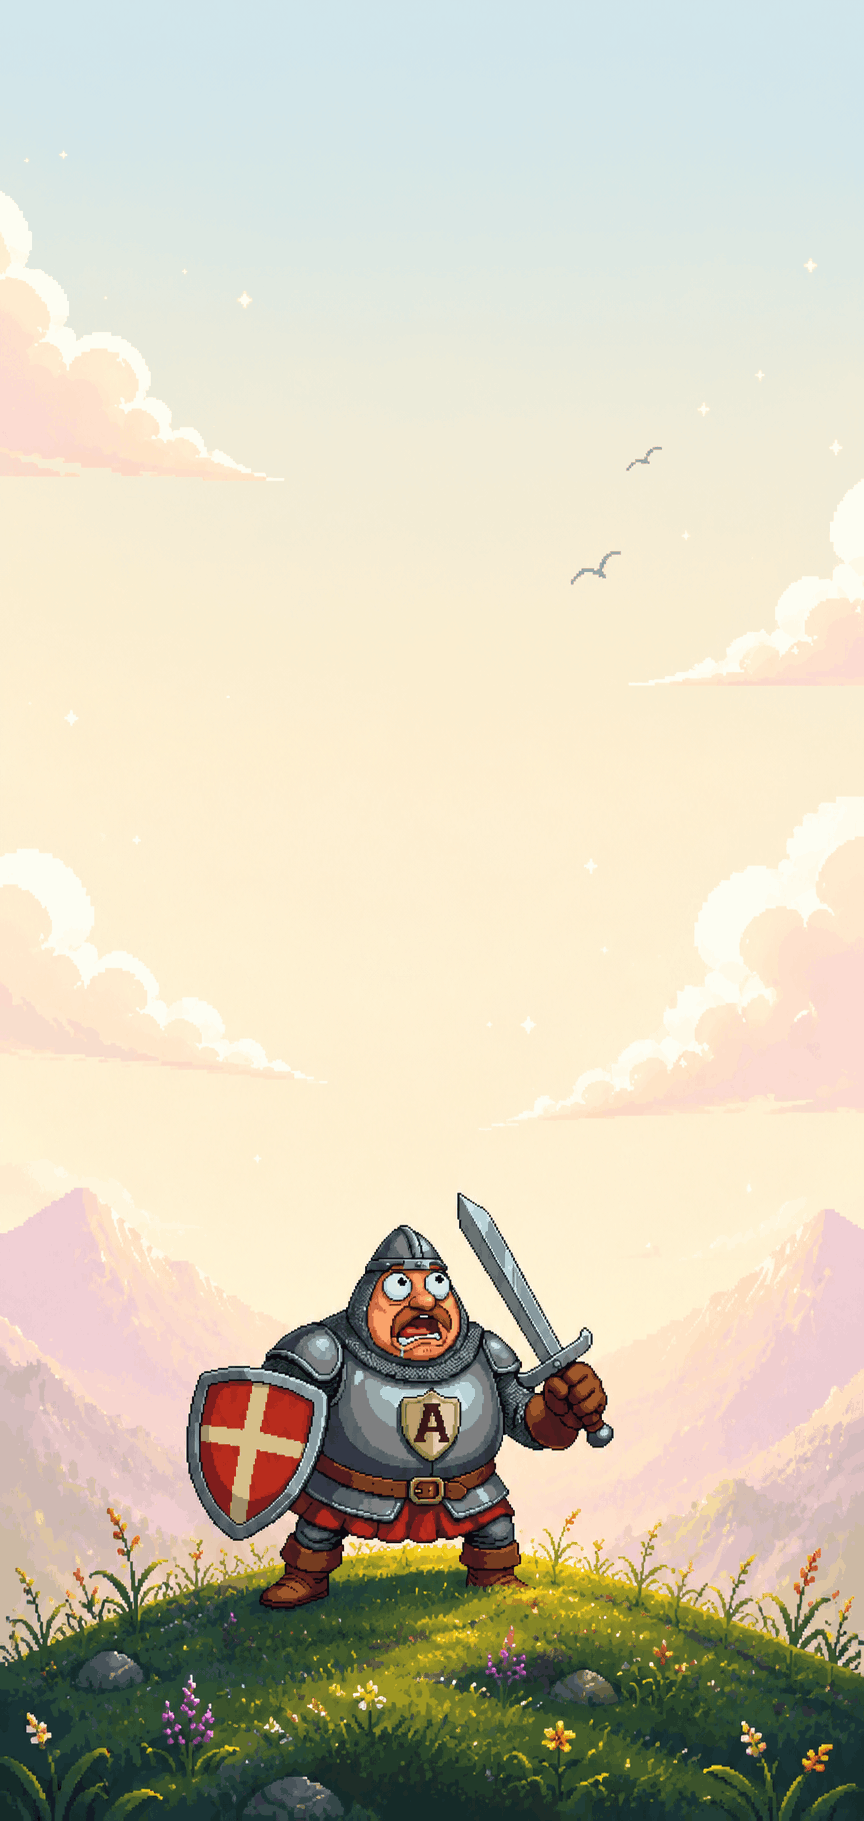
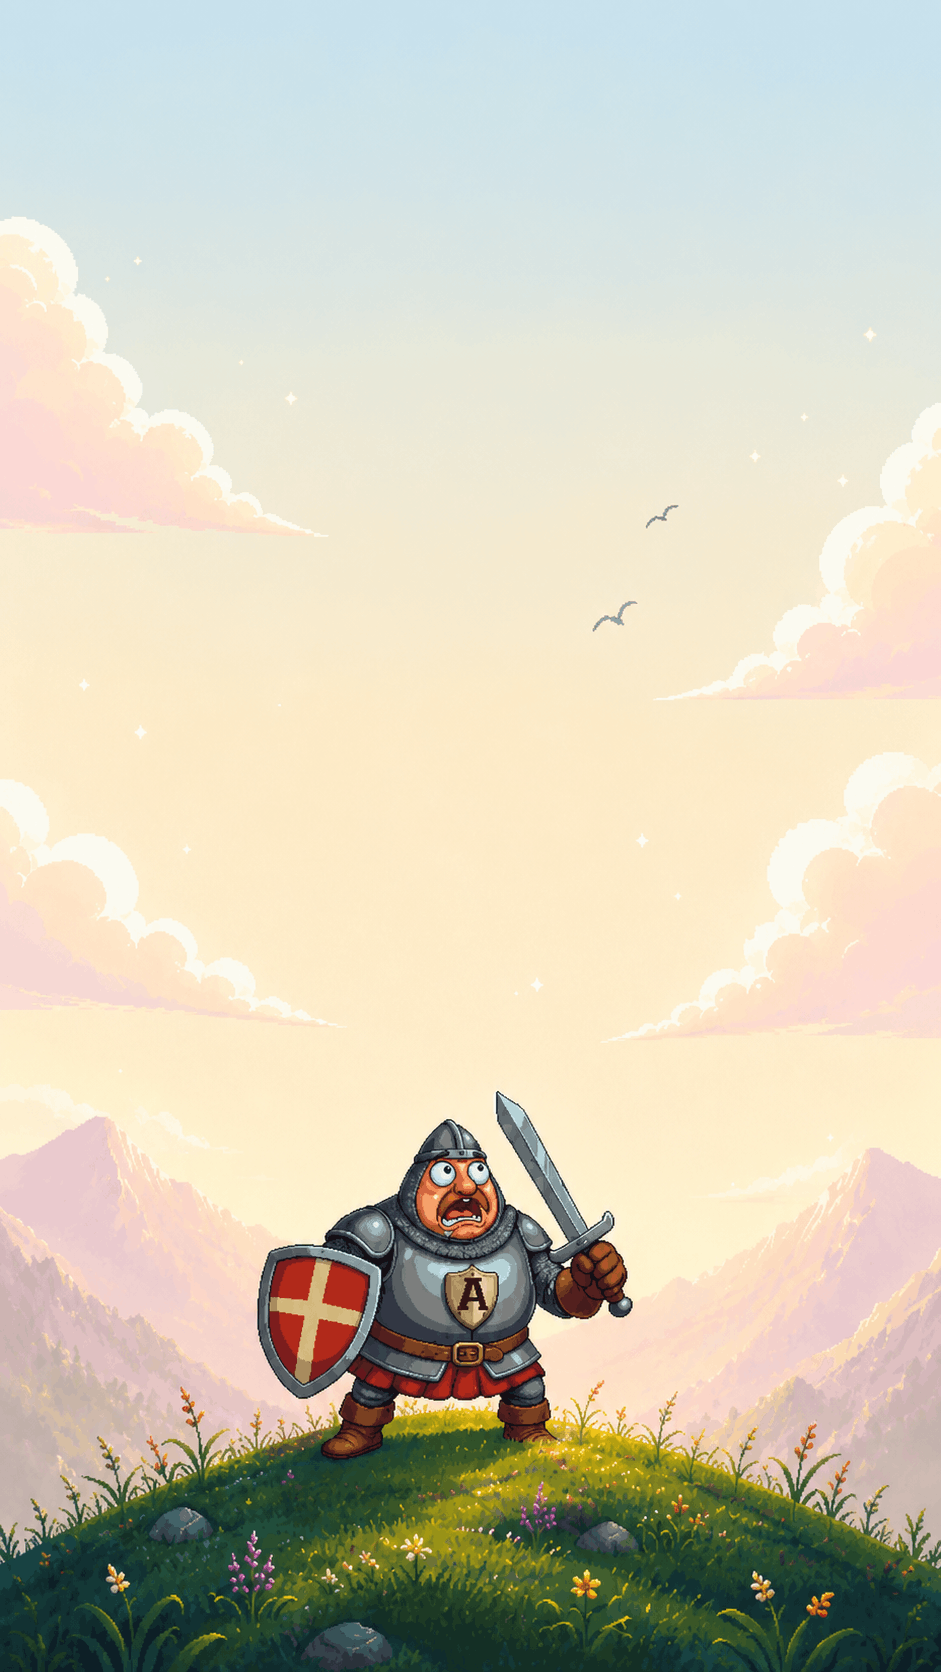
Rifinisce hero gioca: immagine 9:16, gradiente e bomba
Hero a 80vh con nuova immagine 9:16, gradiente per-layer che diventa bianco
pieno solo nell'ultima fascia (niente linea in fondo), maggiore spazio prima
del riquadro gioco e bomba ridotta e riposizionata.

diff --git a/css/gioca.css b/css/gioca.css
@@ -10,7 +10,9 @@
   flex-direction: column;
   align-items: center;
   text-align: center;
-  min-height: 100vh;
+  /* La hero occupa l'80% dell'altezza dello schermo: la foto parte
+     dall'alto e termina all'80% del viewport. */
+  height: 80vh;
   padding-top: var(--space-12);
   padding-bottom: 0;
   gap: var(--space-3);
@@ -20,12 +22,17 @@
   width: calc(100% + 2 * var(--container-pad));
   padding-inline: var(--container-pad);
 
-  /* Sfondo: gradiente trasparente→bianco sopra hero_bg */
+  /* Sfondo: immagine in cover ancorata in basso + gradiente.
+     Valori PER-LAYER: il gradiente copre esattamente la sezione
+     (100% 100%) così il bianco arriva davvero fino in fondo e copre
+     il bordo dell'immagine (niente più linea). L'immagine resta in
+     cover. La sfumatura inizia tardi (80%) e diventa bianco pieno solo
+     nell'ultima fascia (96%), così la foto è visibile il più possibile. */
   background-image:
-    linear-gradient(to bottom, transparent 55%, white 100%),
+    linear-gradient(to bottom, transparent 80%, white 96%),
     url('../assets/game/hero_bg.png');
-  background-size: 128%;
-  background-position: center 80%;
+  background-size: 100% 100%, cover;
+  background-position: center top, center bottom;
   background-repeat: no-repeat;
   overflow: hidden;
 }
@@ -73,10 +80,10 @@
 }
 
 .gioca-hero__bomb-deco {
-  width: 100px;
+  width: 64px;
   position: absolute;
-  right: -3.5rem;
-  top: 2.5rem;
+  right: -1rem;
+  top: 4.5rem;
   user-select: none;
   animation: bomb-float 3s ease-in-out infinite;
 }
@@ -94,7 +101,7 @@
   aspect-ratio: 390 / 600;
   border-radius: var(--radius-xl);
   overflow: hidden;
-  margin-top: var(--space-8);
+  margin-top: var(--space-24);
   margin-bottom: var(--space-5);
   box-shadow: var(--shadow-md);
   background-color: #F4D79A;